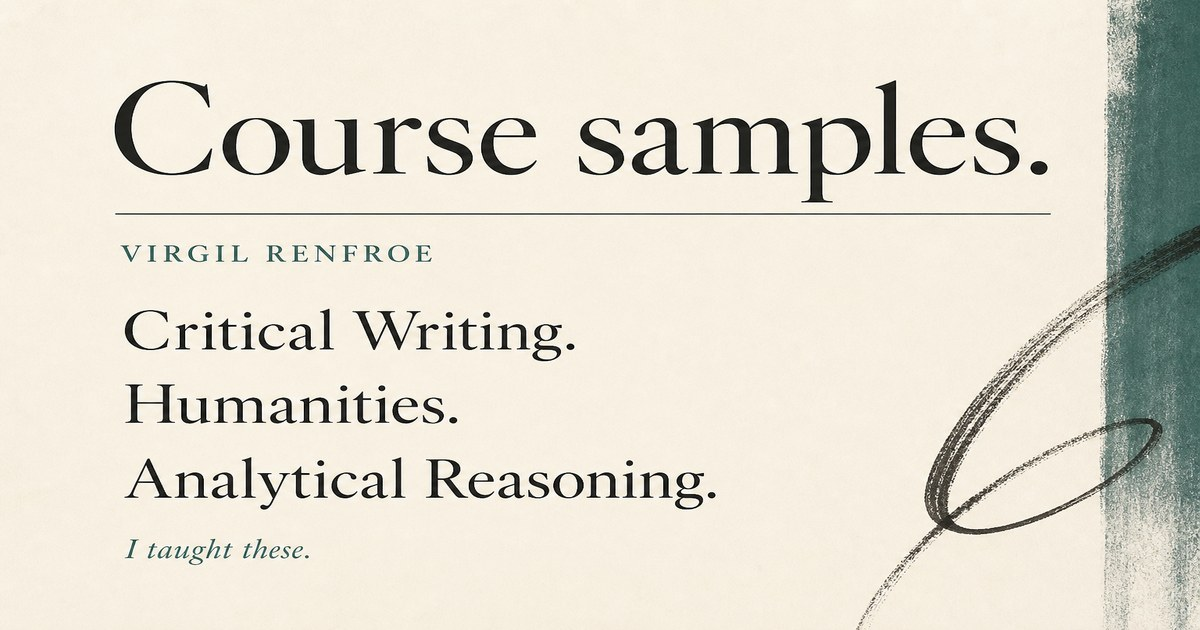
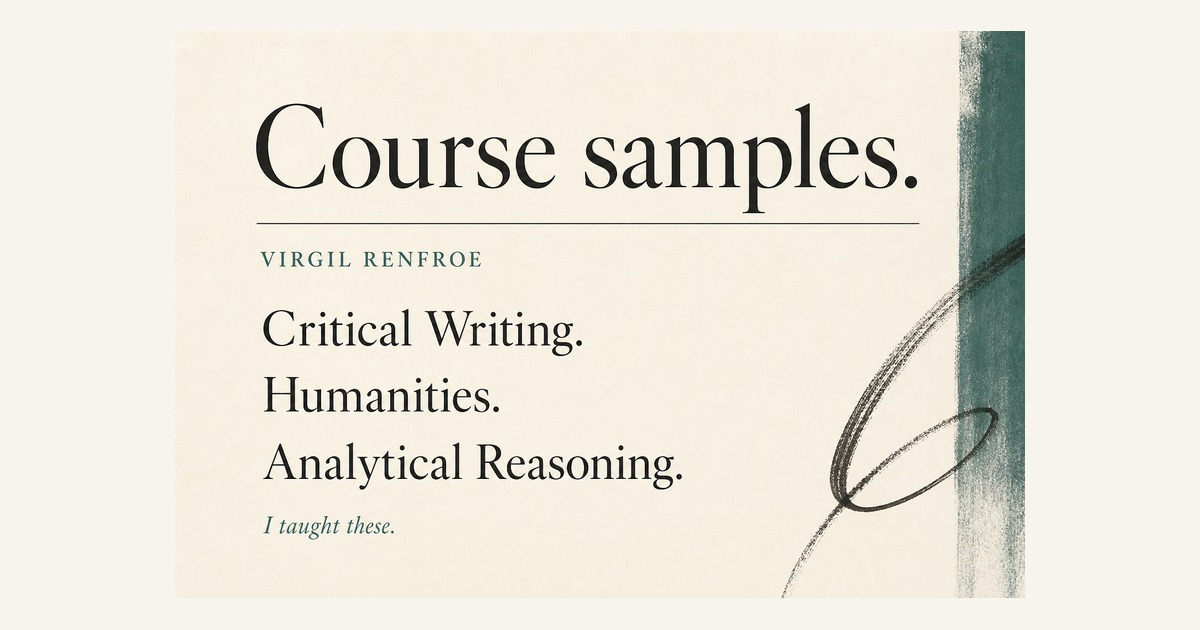
Fix hub hero crop so the type poster is fully readable.

diff --git a/index.html b/index.html
@@ -22,7 +22,7 @@
   body { margin:0; font-family: Georgia, "Iowan Old Style", Palatino, serif; color:var(--ink); background:var(--paper); line-height:1.55; }
   .sample { background:var(--banner); color:#e8eee9; font-family:"Segoe UI",system-ui,sans-serif; font-size:0.8rem; padding:0.7rem 1.25rem; }
   .wrap { max-width:40rem; margin:0 auto; padding:2rem 1.25rem 3rem; }
-  .hero { width:100%; aspect-ratio:1200/630; object-fit:cover; border-radius:8px; margin:0 0 1.4rem; border:1px solid var(--rule); display:block; background:#e6e1d6; }
+  .hero { width:100%; height:auto; object-fit:contain; border-radius:8px; margin:0 0 1.4rem; border:1px solid var(--rule); display:block; background:#e6e1d6; }
   h1 { font-size:2rem; letter-spacing:-0.02em; margin:0 0 0.4rem; }
   h2.sec { font-size:1.15rem; margin:1.8rem 0 0.35rem; }
   .lede, .note { color:var(--muted); margin:0 0 1.2rem; }
@@ -37,7 +37,7 @@
 <body>
 <p class="sample"><strong>Draft course samples.</strong> Not live institutional courses. Not submitted. No student data. Not official NC A&amp;T curriculum.</p>
 <main class="wrap">
-  <img class="hero" src="og.jpg" width="1200" height="630" alt="Course samples — Critical Writing, Humanities, Analytical Reasoning." />
+  <img class="hero" src="hero.png" width="1536" height="1024" alt="Course samples. Virgil Renfroe. Critical Writing. Humanities. Analytical Reasoning. I taught these." />
   <h1>Course samples</h1>
   <p class="lede">I made these so someone hiring can click once. They run in the browser.</p>
   <p class="note">Three taught 101s, one AI PD sample, one faculty sit-down, six science structure samples I did not teach. Plus a TPS training-evidence sample, not a course I taught. Plus a week-one field new-hire sample, not a Stryker product. Plus a 12-minute first-week manager check-in, not an Insight Global product. Plus a 45-minute faculty/staff AI session, not a Duke product, not K–12.</p>
